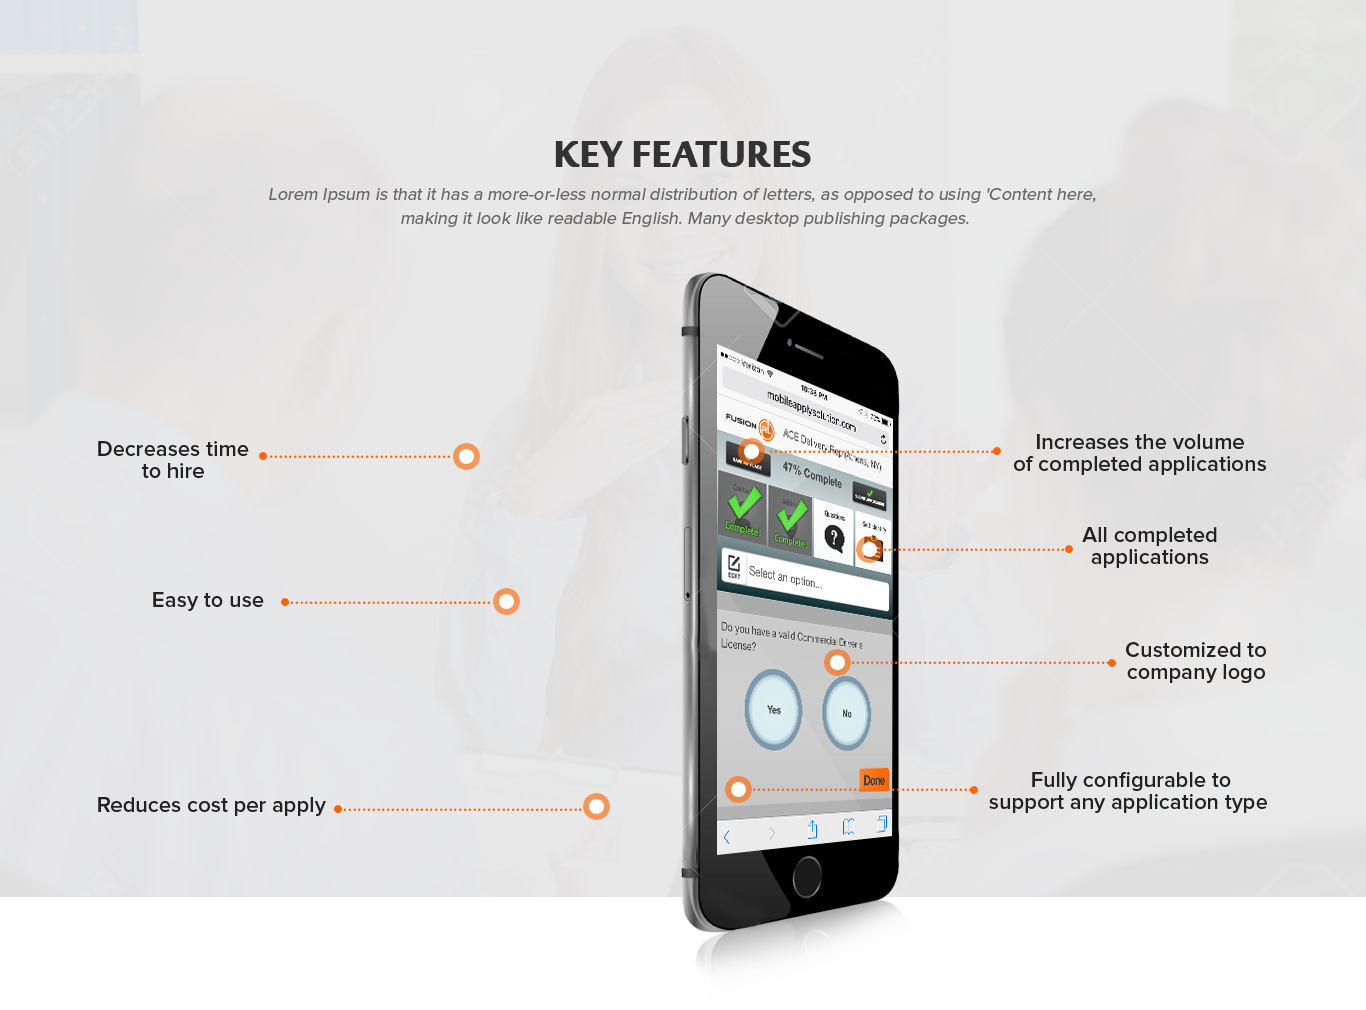
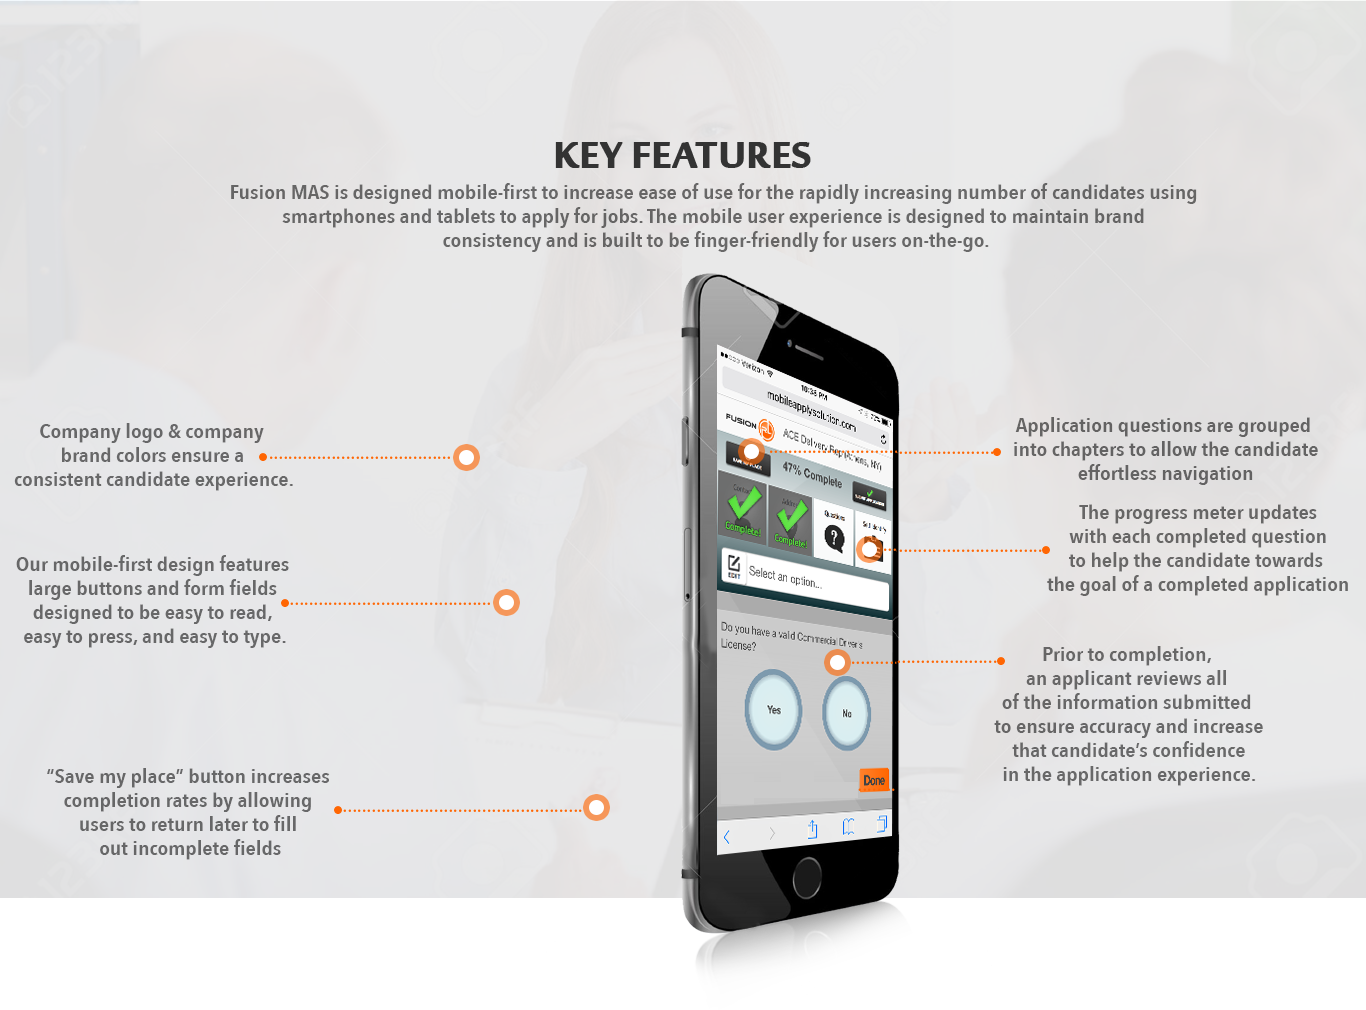
content added

diff --git a/index.html b/index.html
@@ -146,7 +146,7 @@
                     <div class="vertical-middle">
                         <h1 class="text-white">Fusion <span class="text-theme">Recruiting Labs</span></h1>
                         <div class="text-white h4">
-                            We Improve Recruitment Advertising Campaigns For the Fast-Growing Needs of Human Resource Departments.
+                            Fusion RL builds employment tools that accelerate hiring processes and increase the efficiency of recruitment advertising campaigns for the fast-growing needs of Human Resources Departments.
                         </div>
                         <a href="#" class="smooth-scroll btn btn-theme">Request Demo</a>
                     </div>
@@ -172,10 +172,9 @@
 
                 <div class="col-sm-6 col-md-6 height-100p bounceInLeft wow" data-wow-duration="1.3s" data-wow-delay="0.3s" data-stellar-ratio="0.7">
                     <div class="vertical-middle">
-                        <h1 class="text-white">Welcome to <br><span class="text-theme">Fusion Recruiting Labs</span></h1>
+                        <h1 class="text-white">Introducing Fusion <span class="text-theme">MAS</span></h1>
                         <div class="text-white h4">
-                            It is a long established fact that a reader will be distracted by the readable content of a
-                            page when looking at its layout.
+                            Fusion MAS (Mobile Apply Solution) is a mobile-first user experience that increase job application conversion rates, decreases cost per apply, and reduces time to hire.
                         </div>
                         <a href="#about" class="smooth-scroll btn btn-theme">Start Watching</a>
                     </div>
@@ -217,20 +216,19 @@
             <div class="row">
                 <div class="col-md-6 col-md-offset-3">
                     <header class="text-center">
-                        <h2 class="section-title" style="color:white;margin-bottom:50px;">Benefits/<span class="text-theme">Metrics</span></h2>
+                        <h2 class="section-title" style="color:white;margin-bottom:45px;">What are the <span class="text-theme">benefits?</span></h2>
+                        <h3 class="section-title" style="color:white;margin-bottom:50px;">In live product tests, our clients enjoyed</h3>
                         <p class="section-subtitle"></p>
                     </header>
                 </div>
             </div>
-
             <div class="row">
-
                 <!-- Statistic Block -->
                 <div class="col-sm-4 col-xs-12 stat">
                     <span class="icon_group icon zoomIn wow" data-wow-duration="0.7s"></span>
-                    <span class="number animate-number h2" data-value="50"></span><span style="font-size:20px;
+                    <span class="number animate-number h2" data-value="400"></span><span style="font-size:20px;
     color: white;"> %</span>
-                    <h4 class="title bounceInUp wow" data-wow-duration="0.7s">Increase In Applicants</h4>
+                    <h4 class="title bounceInUp wow" data-wow-duration="0.7s">increase in mobile applications received</h4>
                 </div>
                 <!-- /Statistic Block -->
 
@@ -239,16 +237,16 @@
                     <span class="fa fa-money icon zoomIn wow" data-wow-duration="0.7s"></span>
                     <span class="number animate-number h2" data-value="80"></span><span style="font-size:20px;
     color: white;"> %</span>
-                    <h4 class="title bounceInUp wow" data-wow-duration="0.7s">Decrease In Cost Per Hire</h4>
+                    <h4 class="title bounceInUp wow" data-wow-duration="0.7s">Decrease In Mobile Cost Per Apply</h4>
                 </div>
                 <!-- /Statistic Block -->
 
                 <!-- Statistic Block -->
                 <div class="col-sm-4 col-xs-12 stat">
                     <span class="fa fa-clock-o icon zoomIn wow" data-wow-duration="0.7s"></span>
-                    <span class="number animate-number h2" data-value="87"></span><span style="font-size:20px;
+                    <span class="number animate-number h2" data-value="44"></span><span style="font-size:20px;
     color: white;"> %</span>
-                    <h4 class="title bounceInUp wow" data-wow-duration="0.7s">Reduction In Time To Hire</h4>
+                    <h4 class="title bounceInUp wow" data-wow-duration="0.7s">Decrease In Total Cost Per Apply</h4>
                 </div>
                 <!-- /Statistic Block -->
             </div>
